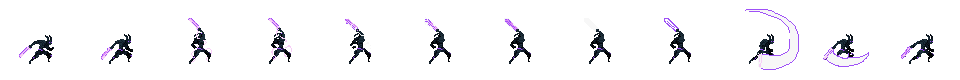
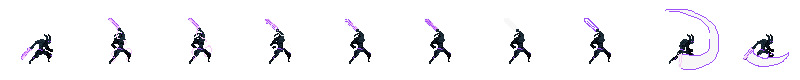
solve bug of walking dead

diff --git a/src/classes.js b/src/classes.js
@@ -192,6 +192,7 @@ class Player extends Sprite {
   switchSprite(sprite) {
     // Grants that no other action interrupt death animation
     if (this.image === this.sprites.death.image) {
+      this.velocity.x = 0
       this.isDead = true
       if (this.currentFrame === this.sprites.death.totalFrames - 1) {
         this.dead = true

diff --git a/src/characters.js b/src/characters.js
@@ -215,7 +215,7 @@ const nix = {
     },
     attack1: {
       imageSrc: './img/Nix/Attack1.png',
-      totalFrames: 12,
+      totalFrames: 10,
     },
     takeDamage: {
       imageSrc: './img/Nix/Take Hit.png',
